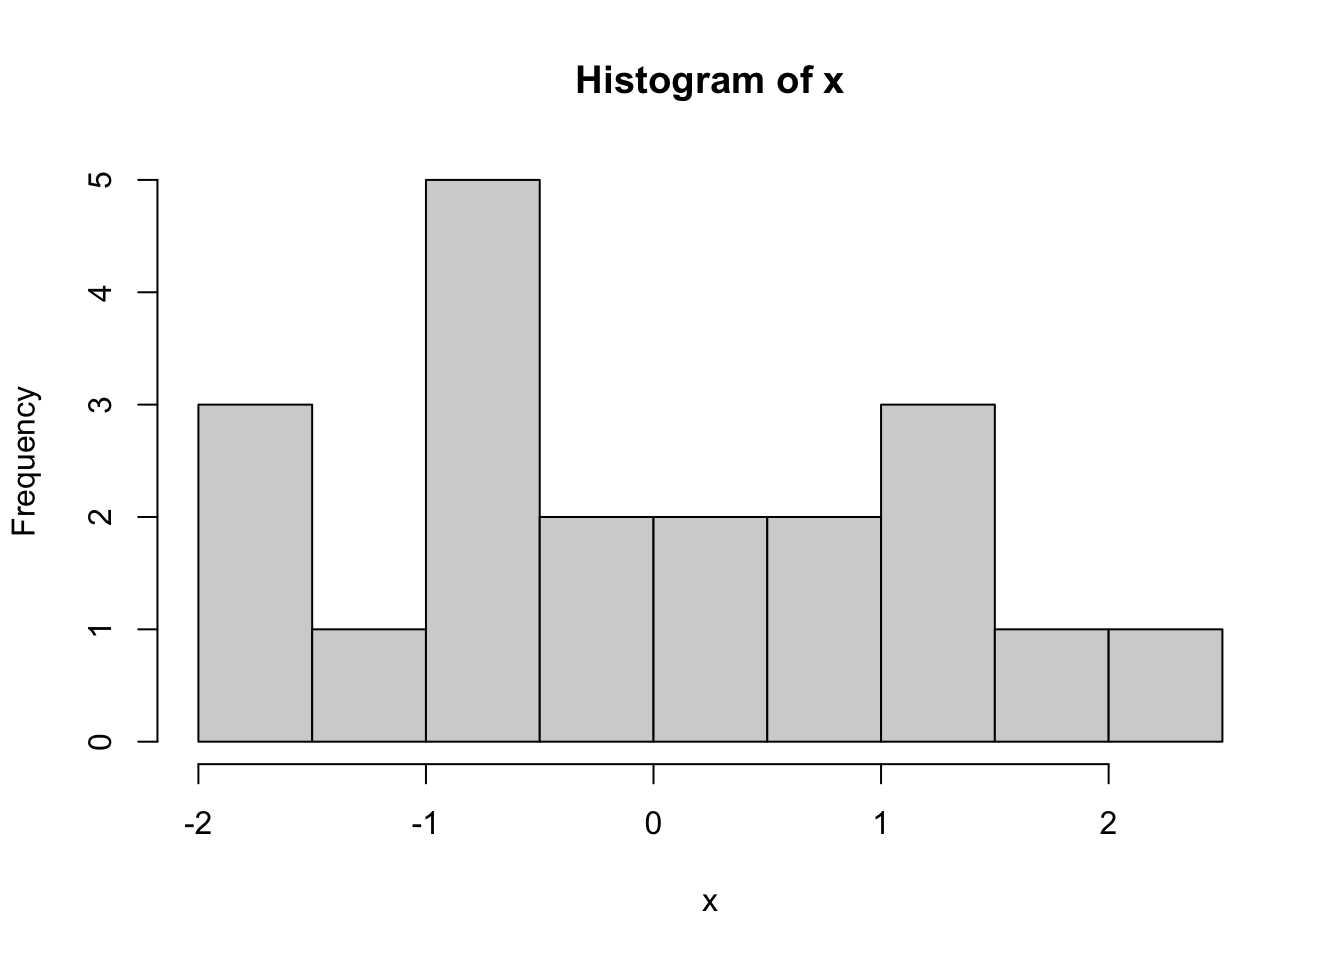
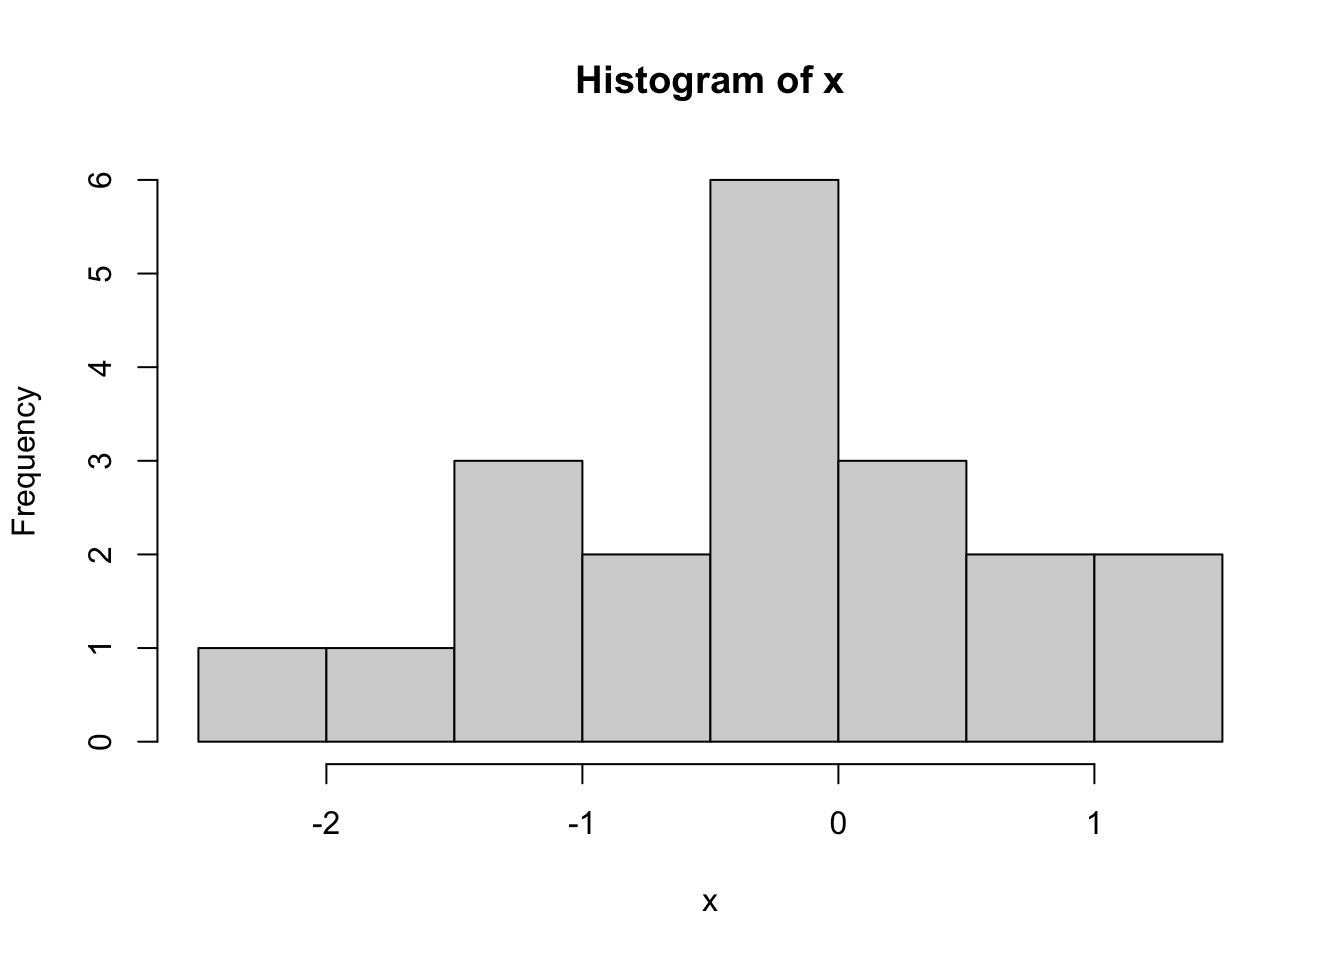
compile book

diff --git a/_book/02probability.html b/_book/02probability.html
@@ -424,10 +424,10 @@ Solution:
 <div class="sourceCode cell-code" id="cb25"><pre class="sourceCode r code-with-copy"><code class="sourceCode r"><span id="cb25-1"><a href="#cb25-1" aria-hidden="true" tabindex="-1"></a>x <span class="ot">=</span> <span class="fu">rnorm</span>(<span class="dv">20</span>, <span class="at">mean=</span><span class="dv">0</span>, <span class="at">sd=</span><span class="dv">1</span>)</span>
 <span id="cb25-2"><a href="#cb25-2" aria-hidden="true" tabindex="-1"></a>x</span></code><button title="Copy to Clipboard" class="code-copy-button"><i class="bi"></i></button></pre></div>
 <div class="cell-output cell-output-stdout">
-<pre><code> [1]  1.60317420  0.53049171 -0.81565917 -1.49589037  0.18918592 -0.82150645
- [7] -0.77535911 -1.58343774  1.02570825 -0.52086982 -0.84100051  1.36853846
-[13] -0.25434306 -0.16155855 -1.57512223  0.61123363  0.05753802  2.33805896
-[19]  1.00426270 -1.77878494</code></pre>
+<pre><code> [1]  0.61412072  1.38269423  0.65916544 -2.15797461 -0.29891777 -1.26288086
+ [7]  0.20481004 -0.66029319  0.41212576 -0.33846097 -0.67619386 -0.40960412
+[13] -0.36993914 -1.00904600  0.29112444 -1.66487618 -1.11863055  1.05751667
+[19] -0.39349728 -0.02760358</code></pre>
 </div>
 <div class="sourceCode cell-code" id="cb27"><pre class="sourceCode r code-with-copy"><code class="sourceCode r"><span id="cb27-1"><a href="#cb27-1" aria-hidden="true" tabindex="-1"></a><span class="fu">hist</span>(x)</span></code><button title="Copy to Clipboard" class="code-copy-button"><i class="bi"></i></button></pre></div>
 <div class="cell-output-display">
@@ -444,21 +444,21 @@ Solution:
 <div class="sourceCode cell-code" id="cb28"><pre class="sourceCode r code-with-copy"><code class="sourceCode r"><span id="cb28-1"><a href="#cb28-1" aria-hidden="true" tabindex="-1"></a>x <span class="ot">=</span> <span class="fu">rnorm</span>(<span class="dv">100</span>, <span class="at">mean=</span><span class="dv">10</span>, <span class="at">sd=</span><span class="fu">sqrt</span>(<span class="dv">2</span>))</span>
 <span id="cb28-2"><a href="#cb28-2" aria-hidden="true" tabindex="-1"></a>x</span></code><button title="Copy to Clipboard" class="code-copy-button"><i class="bi"></i></button></pre></div>
 <div class="cell-output cell-output-stdout">
-<pre><code>  [1] 11.265757 10.790358  9.051115 10.925272 10.366695  9.422983 10.140748
-  [8] 12.479428  7.830759 11.680833  8.830207  8.296619  9.567852  9.756122
- [15] 10.183158  8.634201  9.028941  9.935204 11.209504  9.988556 10.422354
- [22] 13.133023 10.067284 10.617835 10.089119  9.170215  7.897292 12.194818
- [29]  9.918851 10.187694 10.955221 10.227440 10.668079 10.902067 10.280177
- [36]  8.692844 10.007043 11.093419 10.240218  9.943929 10.642915 12.486199
- [43] 10.192371  9.019576 10.482230 11.027698  9.453579 10.870556  9.349337
- [50] 10.566884 11.823151  9.804195  9.227315  8.338466  9.262477 10.300750
- [57] 11.064117 11.452179  9.286227  9.584778  7.865396 11.299548 11.618646
- [64]  8.830497  9.699604  9.725979 11.346834  8.327323  6.949597  7.657466
- [71]  8.146317  7.857305 11.141032  8.571594  9.919601 10.068726  8.768119
- [78]  9.724083 10.220050  9.409175 11.346039 10.602258  9.096354  8.474716
- [85] 11.690613 11.371188  8.279571 11.273532  8.024051  8.972753 10.094148
- [92] 10.949740 10.557475  9.335336  8.418420 10.625519  8.284981  9.002771
- [99]  7.615834  8.879433</code></pre>
+<pre><code>  [1] 12.206892 11.917042 11.518262 11.201960  8.433364 10.160190 10.446508
+  [8] 10.629495 11.087395  9.050901 13.023963  8.566004  9.111801  9.344239
+ [15] 11.891901  9.809136  7.745126  9.020194 11.532157  9.734464 10.717147
+ [22] 10.568640 10.309104  9.808923  9.228362 11.385427  9.493146 11.008692
+ [29]  9.905969 10.632386  9.255348  9.202668  9.326875 11.284472 12.168103
+ [36]  7.330041 10.242420  8.548622 11.493740 11.228651  9.038386  9.836789
+ [43] 13.866946  9.619982  9.660139  8.786233  9.568283  9.135579 11.082908
+ [50] 13.267074  9.351824 10.838320  8.984272  9.343567 12.140714 10.598461
+ [57]  9.397663  7.799004  9.602744 10.979060 10.566839 11.191015 11.048709
+ [64]  9.994714  9.258079  9.898873 10.832419 11.290274 11.258167  8.033880
+ [71] 11.033733  9.805881 12.463562  8.624068 10.168451 11.045100 10.459058
+ [78]  8.766602 11.434820  8.887241 10.343918 10.215236 10.108440 11.983586
+ [85]  9.115894  7.513840  8.279048  8.585153  8.230148  9.032734  7.775974
+ [92] 12.412221 12.231889  8.312711 14.759735  8.274360  8.413873 10.874044
+ [99] 10.599015  8.114372</code></pre>
 </div>
 <div class="sourceCode cell-code" id="cb30"><pre class="sourceCode r code-with-copy"><code class="sourceCode r"><span id="cb30-1"><a href="#cb30-1" aria-hidden="true" tabindex="-1"></a><span class="fu">hist</span>(x)</span></code><button title="Copy to Clipboard" class="code-copy-button"><i class="bi"></i></button></pre></div>
 <div class="cell-output-display">
@@ -586,8 +586,8 @@ Solution:
 <div class="sourceCode cell-code" id="cb47"><pre class="sourceCode r code-with-copy"><code class="sourceCode r"><span id="cb47-1"><a href="#cb47-1" aria-hidden="true" tabindex="-1"></a>x <span class="ot">=</span> <span class="fu">rbinom</span>(<span class="dv">50</span>, <span class="at">size=</span><span class="dv">1</span>, <span class="at">prob=</span><span class="fl">0.2</span>)</span>
 <span id="cb47-2"><a href="#cb47-2" aria-hidden="true" tabindex="-1"></a>x</span></code><button title="Copy to Clipboard" class="code-copy-button"><i class="bi"></i></button></pre></div>
 <div class="cell-output cell-output-stdout">
-<pre><code> [1] 0 0 0 0 1 0 0 1 0 0 0 0 0 0 0 0 0 1 0 1 0 1 0 1 0 0 0 0 1 0 0 0 1 1 0 1 1 0
-[39] 0 1 0 0 0 1 1 0 0 0 0 1</code></pre>
+<pre><code> [1] 0 0 0 0 0 1 0 0 0 0 0 1 0 0 0 1 1 0 0 0 0 0 1 1 0 0 1 0 0 0 0 0 0 1 0 0 0 0
+[39] 0 0 0 0 0 0 0 0 0 0 0 0</code></pre>
 </div>
 <div class="sourceCode cell-code" id="cb49"><pre class="sourceCode r code-with-copy"><code class="sourceCode r"><span id="cb49-1"><a href="#cb49-1" aria-hidden="true" tabindex="-1"></a><span class="fu">barplot</span>(<span class="fu">table</span>(x))</span></code><button title="Copy to Clipboard" class="code-copy-button"><i class="bi"></i></button></pre></div>
 <div class="cell-output-display">
@@ -604,10 +604,10 @@ Solution:
 <div class="sourceCode cell-code" id="cb50"><pre class="sourceCode r code-with-copy"><code class="sourceCode r"><span id="cb50-1"><a href="#cb50-1" aria-hidden="true" tabindex="-1"></a>x <span class="ot">=</span> <span class="fu">rbinom</span>(<span class="dv">100</span>, <span class="at">size=</span><span class="dv">100</span>, <span class="at">prob=</span><span class="fl">0.2</span>)</span>
 <span id="cb50-2"><a href="#cb50-2" aria-hidden="true" tabindex="-1"></a>x</span></code><button title="Copy to Clipboard" class="code-copy-button"><i class="bi"></i></button></pre></div>
 <div class="cell-output cell-output-stdout">
-<pre><code>  [1] 20 24 21 25 14 30 20 17 18 23 12 24 23 23 18 26 23 19 17 17 25 20 17 21 23
- [26] 26 22 20 16 24 20 23 22 18 17 14 19 14 21 24 16 27 21 17 20 19 26 19 21 17
- [51] 15 24 12 26 17 18 17 15 16 23 22 16 20 21 22 19 14 24 25 19 13 17 20 19 17
- [76] 20 16 18 19 20 17 19 18 24 17 19 18 24 19 18 22 23 22 20 19 19 19 13 21 19</code></pre>
+<pre><code>  [1] 22 18 21 13 26 22 21 19 23 26 18 19 19 22 21 22 12 21 17 27 23 20 24 17 15
+ [26] 21 17 26 25 15 18 15 21 12 19 19 28 20 23 25 23 22 23 24 27 18 22 14 20 24
+ [51] 15 13 13 20 21 24 23 24 20 17 19 20 23 17 22 12 17 21 20 22 15 20 18 19 22
+ [76] 24 21 21 22 22 20 30 21 33 19 17 22 29 17 28 25 22 14 18 21 24 20 14 19 15</code></pre>
 </div>
 <div class="sourceCode cell-code" id="cb52"><pre class="sourceCode r code-with-copy"><code class="sourceCode r"><span id="cb52-1"><a href="#cb52-1" aria-hidden="true" tabindex="-1"></a><span class="fu">barplot</span>(<span class="fu">table</span>(x))</span></code><button title="Copy to Clipboard" class="code-copy-button"><i class="bi"></i></button></pre></div>
 <div class="cell-output-display">

diff --git a/_book/03probability.html b/_book/03probability.html
@@ -249,7 +249,7 @@ pre > code.sourceCode > span > a:first-child::before { text-decoration: underlin
 <div class="sourceCode cell-code" id="cb1"><pre class="sourceCode r code-with-copy"><code class="sourceCode r"><span id="cb1-1"><a href="#cb1-1" aria-hidden="true" tabindex="-1"></a>x <span class="ot">=</span> <span class="fu">rnorm</span>(<span class="at">n=</span><span class="dv">100</span>, <span class="at">mean=</span><span class="dv">0</span>, <span class="at">sd=</span><span class="dv">1</span>)</span>
 <span id="cb1-2"><a href="#cb1-2" aria-hidden="true" tabindex="-1"></a><span class="fu">mean</span>(x)</span></code><button title="Copy to Clipboard" class="code-copy-button"><i class="bi"></i></button></pre></div>
 <div class="cell-output cell-output-stdout">
-<pre><code>[1] -0.1707835</code></pre>
+<pre><code>[1] 0.1470885</code></pre>
 </div>
 <div class="sourceCode cell-code" id="cb3"><pre class="sourceCode r code-with-copy"><code class="sourceCode r"><span id="cb3-1"><a href="#cb3-1" aria-hidden="true" tabindex="-1"></a><span class="fu">ggplot</span>(<span class="fu">data.frame</span>(x),<span class="fu">aes</span>(x)) <span class="sc">+</span> <span class="fu">geom_histogram</span>() </span></code><button title="Copy to Clipboard" class="code-copy-button"><i class="bi"></i></button></pre></div>
 <div class="cell-output-display">
@@ -281,11 +281,11 @@ pre > code.sourceCode > span > a:first-child::before { text-decoration: underlin
 <div class="cell">
 <div class="sourceCode cell-code" id="cb6"><pre class="sourceCode r code-with-copy"><code class="sourceCode r"><span id="cb6-1"><a href="#cb6-1" aria-hidden="true" tabindex="-1"></a><span class="fu">mean</span>(xbar)</span></code><button title="Copy to Clipboard" class="code-copy-button"><i class="bi"></i></button></pre></div>
 <div class="cell-output cell-output-stdout">
-<pre><code>[1] 0.0002421348</code></pre>
+<pre><code>[1] -0.0004333626</code></pre>
 </div>
 <div class="sourceCode cell-code" id="cb8"><pre class="sourceCode r code-with-copy"><code class="sourceCode r"><span id="cb8-1"><a href="#cb8-1" aria-hidden="true" tabindex="-1"></a><span class="fu">var</span>(xbar)</span></code><button title="Copy to Clipboard" class="code-copy-button"><i class="bi"></i></button></pre></div>
 <div class="cell-output cell-output-stdout">
-<pre><code>[1] 0.01000869</code></pre>
+<pre><code>[1] 0.0100334</code></pre>
 </div>
 </div>
 <p>Very close to the true values!</p>
@@ -325,11 +325,11 @@ pre > code.sourceCode > span > a:first-child::before { text-decoration: underlin
 <div class="cell">
 <div class="sourceCode cell-code" id="cb12"><pre class="sourceCode r code-with-copy"><code class="sourceCode r"><span id="cb12-1"><a href="#cb12-1" aria-hidden="true" tabindex="-1"></a><span class="fu">mean</span>(xbar)</span></code><button title="Copy to Clipboard" class="code-copy-button"><i class="bi"></i></button></pre></div>
 <div class="cell-output cell-output-stdout">
-<pre><code>[1] 0.9996441</code></pre>
+<pre><code>[1] 0.9997542</code></pre>
 </div>
 <div class="sourceCode cell-code" id="cb14"><pre class="sourceCode r code-with-copy"><code class="sourceCode r"><span id="cb14-1"><a href="#cb14-1" aria-hidden="true" tabindex="-1"></a><span class="fu">var</span>(xbar)</span></code><button title="Copy to Clipboard" class="code-copy-button"><i class="bi"></i></button></pre></div>
 <div class="cell-output cell-output-stdout">
-<pre><code>[1] 0.009963056</code></pre>
+<pre><code>[1] 0.009976071</code></pre>
 </div>
 </div>
 
